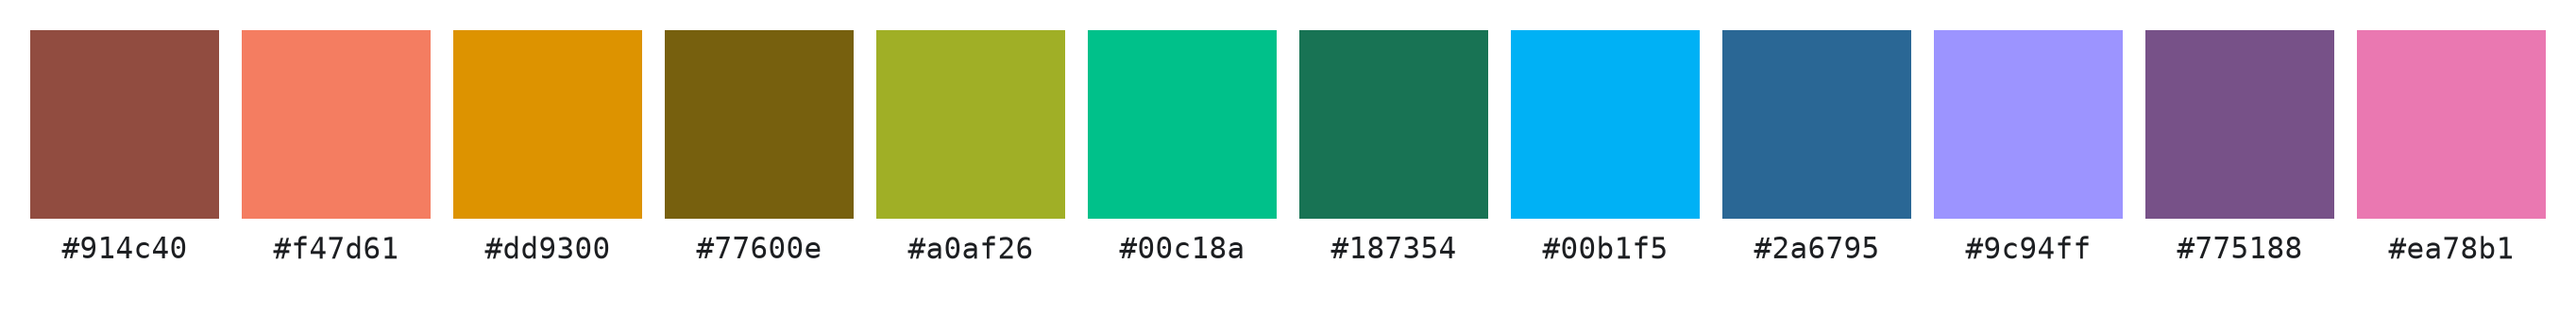
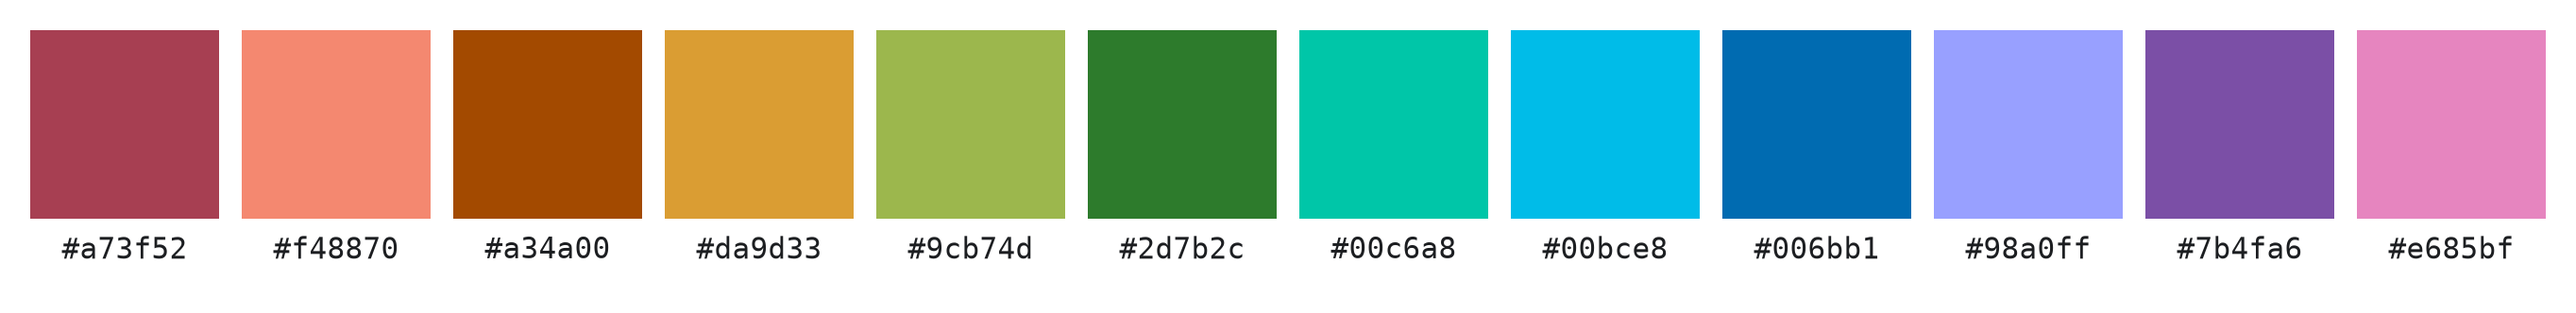
Restructure README around two main palettes plus one variation
Folded the shared-chroma explanation into the intro instead of repeating
it per palette. 6+6 and 5+7 (both shared-chroma) are now the two main
palettes, framed by what actually differs between them: 6+6 has the
larger worst-pair distance, 5+7 sits at a higher shared chroma. Plain
6+6 (independent chroma) is dropped from the README — it looked nearly
identical to the shared version. Plain 5+7 survives as a labeled
variation, since it actually edges out its shared counterpart after
8-bit rounding.

render_readme_swatches.py now renders exactly the three images the
README uses, named for what they show rather than for the source JSON.

Claude-Session: https://claude.ai/code/session_01XZzxR5NkyaPwVsqxwiTyq5

diff --git a/scripts/render_readme_swatches.py b/scripts/render_readme_swatches.py
@@ -19,12 +19,14 @@ from palette_lab import palette as palette_module
 REPO_ROOT = Path(__file__).resolve().parent.parent
 OUTPUT_DIR = REPO_ROOT / "images"
 
-# (output stem, results file)
+# (output stem, results file). README shows the shared-chroma layouts as the two main
+# palettes, plus the independent-chroma 5+7 as a variation. The independent-chroma 6+6
+# is left out: side by side with 6+6-sharedC it looks nearly identical, so it earns a
+# place in EXPERIMENTS.md's numbers but not a second image here.
 PALETTES = [
-    ("6+6", "6+6.json"),
-    ("6+6-sharedC", "6+6-sharedC.json"),
-    ("5+7", "5+7.json"),
-    ("5+7-sharedC", "5+7-sharedC.json"),
+    ("6+6", "6+6-sharedC.json"),
+    ("5+7", "5+7-sharedC.json"),
+    ("5+7-alt", "5+7.json"),
 ]
 
 SWATCH = 1.0

diff --git a/README.md b/README.md
@@ -2,38 +2,45 @@
 
 Twelve-color palettes for charts, maps, and dashboards. Most categorical
 palettes blur together well before hitting twelve categories, so each of
-these four was searched by directly maximizing CIEDE2000 instead — the metric
+these was searched by directly maximizing CIEDE2000 instead — the metric
 closest to how people actually judge color similarity. Every color stays
 inside sRGB, so it renders the same on any screen.
 
+Each palette splits its twelve colors across two Oklab rings — a ring being
+one fixed lightness and chroma, varying only in hue — and holds both rings to
+the same chroma. Sharing chroma is what keeps a palette reading as one
+deliberate set instead of a grab bag of colors from two different families.
+
 Colors within each palette are sorted by hue below, not by which ring they
-came from, so the four rows compare at a glance.
+came from, so the two rows compare at a glance.
 
 ## The palettes
 
-### Two rings of six — 6+6
+### 6+6 — the more separated of the two
 
 ![6+6](images/6+6.png)
 
-### Two rings of six, one shared chroma — 6+6:C (best)
-
-![6+6:C](images/6+6-sharedC.png)
-
-### Rings of five and seven — 5+7
+### 5+7 — the more vivid of the two
 
 ![5+7](images/5+7.png)
 
-### Rings of five and seven, one shared chroma — 5+7:C
+`6+6` splits its twelve colors evenly and holds the largest worst-pair
+distance of any layout tried. `5+7` splits them unevenly, five and seven,
+which frees up room for a higher shared chroma — its colors sit more
+saturated, at a small cost to that worst-pair distance.
 
-![5+7:C](images/5+7-sharedC.png)
+### Variation: 5+7 without the shared chroma
+
+![5+7, one chroma per ring](images/5+7-alt.png)
+
+Let the two rings pick their own chroma instead of sharing one, and the
+5-color ring settles lower while the 7-color ring climbs higher — muted next
+to vivid, rather than uniform. It scores slightly higher than the shared
+version above once every color is rounded to 8-bit hex, at the cost of the
+two rings looking like they belong to different palettes.
 
 ## Why these work
 
-- **One constraint per palette.** Every color in a palette sits on a *ring*: a
-  fixed Oklab lightness `L` and chroma `C`, differing only in hue. `6+6` and
-  `5+7` split the 12 colors across two such rings; `6+6:C` and `5+7:C` force
-  both rings to the same chroma. Because so little is free to vary, the colors
-  read as one deliberate set instead of a grab bag.
 - **The worst pair is what was optimized, not the average.** The search
   maximizes the *smallest* CIEDE2000 distance over all 66 pairs in the
   palette — not the average pair, the closest one. Nothing in a palette is
@@ -41,10 +48,9 @@ came from, so the four rows compare at a glance.
 - **Every color stays in sRGB.** No color needs a wide-gamut display or gets
   clipped and dulled on a normal one.
 
-The four palettes above score close enough to each other that picking between
-them is mostly a matter of taste — `6+6` and `6+6:C` split the colors evenly,
-`5+7` and `5+7:C` split them 5-and-7. The exact scores, the ΔE00 matrices, and
-what other layouts were tried and dropped are in [EXPERIMENTS.md](EXPERIMENTS.md).
+The exact scores, the ΔE00 matrices, and the other layouts tried and dropped
+— including a plain `6+6` where each ring keeps its own chroma — are in
+[EXPERIMENTS.md](EXPERIMENTS.md).
 
 ## Use a palette
 
